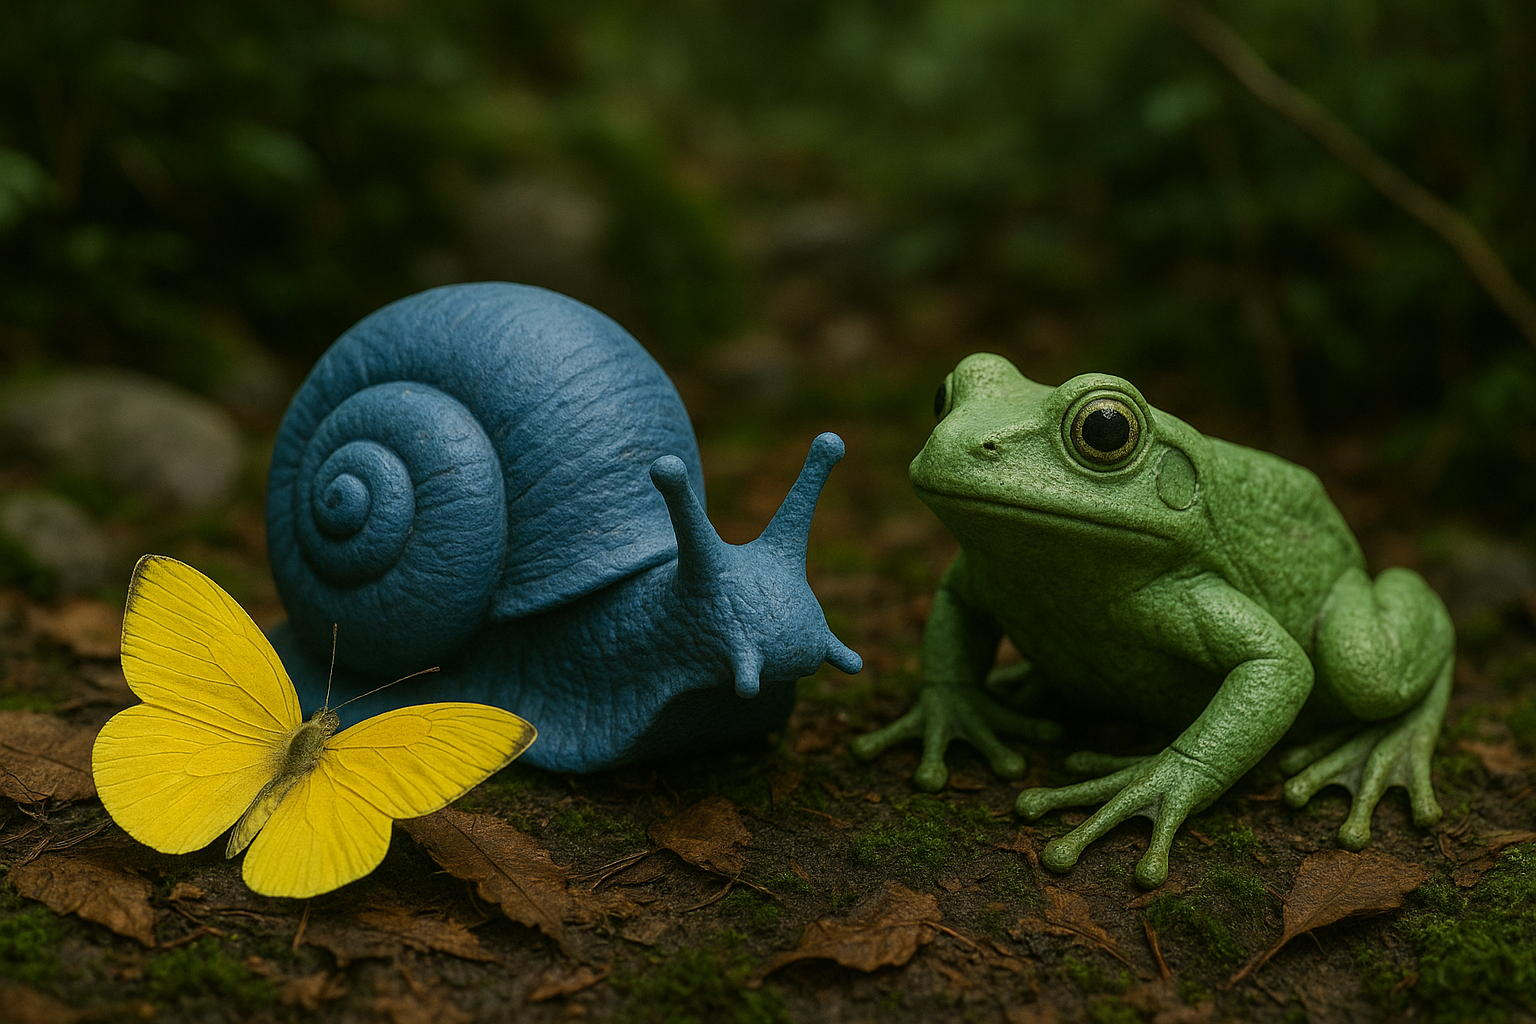
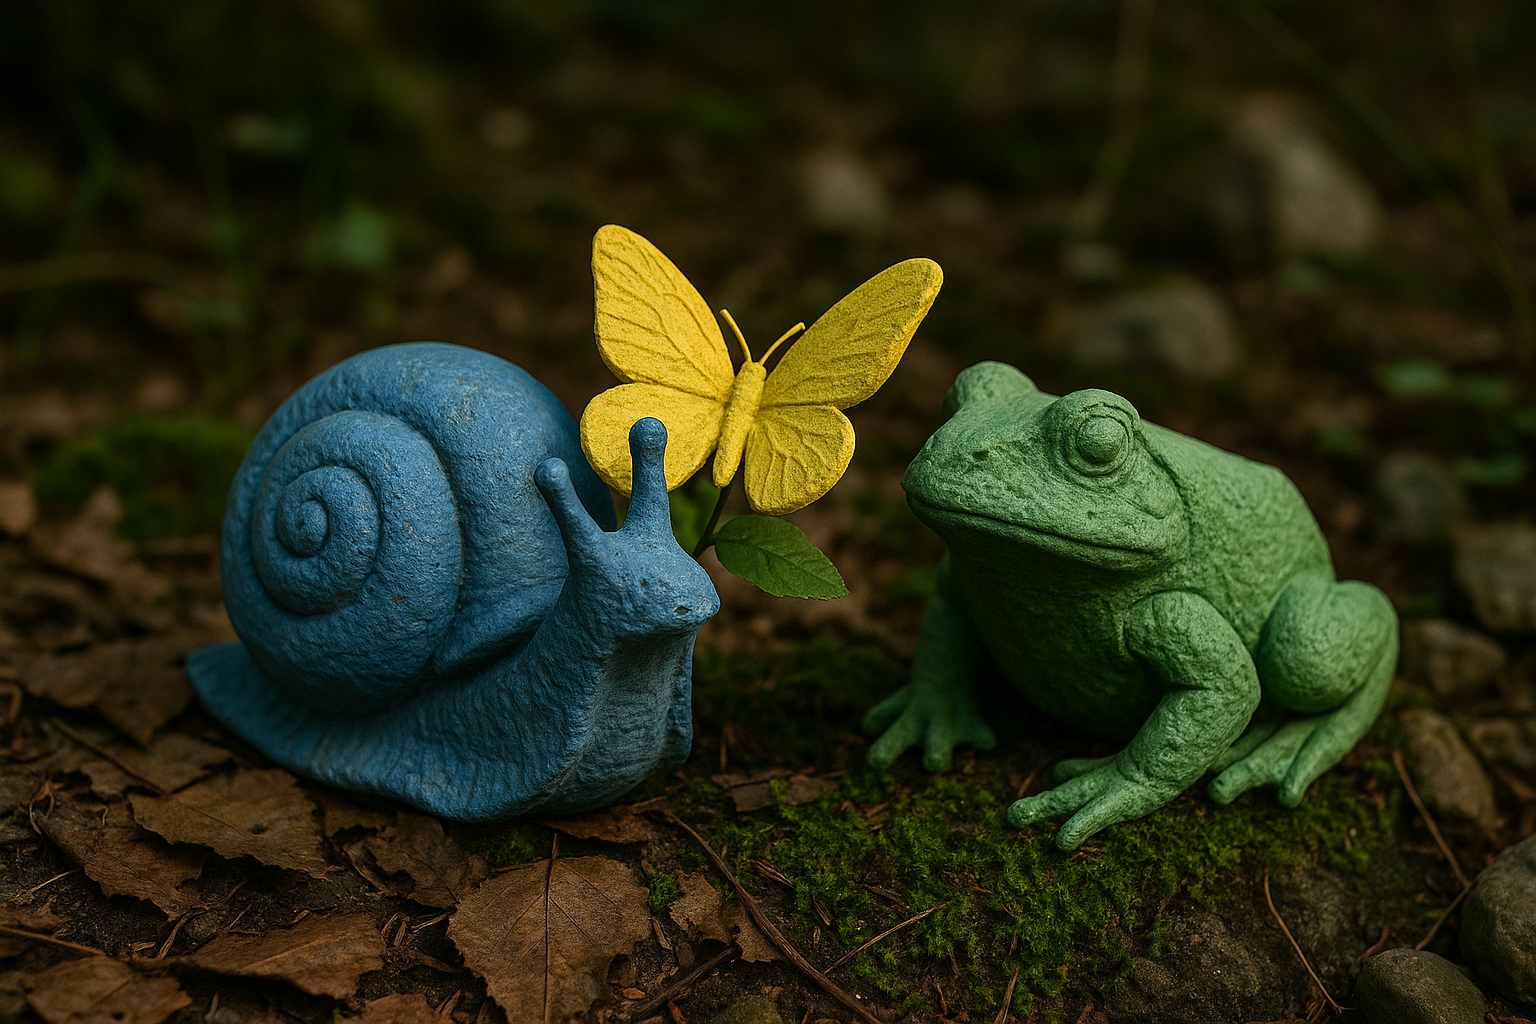
Update README and app.py to clarify image generation prompts and enhance console output; update example images.

diff --git a/images/generation/responses-api/app.py b/images/generation/responses-api/app.py
@@ -14,13 +14,13 @@ from rich.progress import Progress, SpinnerColumn, TextColumn
 
 output_path = "/workspaces/hoy-empiezo-con-ia-generativa/images/generation/responses-api/example_output"
 
-# Setup rich console
+# Configura la consola de rich
 console = Console()
 
-# Load environment variables from a .env file
+# Carga las variables de entorno desde el archivo .env
 load_dotenv()
 
-# Create OpenAI client
+# Crea el cliente de OpenAI
 client = OpenAI(
     base_url=os.getenv("ENDPOINT_URL"),
     api_key=os.getenv("API_KEY")
@@ -29,7 +29,7 @@ client = OpenAI(
 start_time = time.time()
 
 prompt = """
-Genera una imagen hiperrealista y detallada de un caracol de escayola azul y una rana de escayola verde, ambos situados juntos sobre un lecho de hojas y musgo en un entorno natural iluminado suavemente. 
+Genera una imagen hiperrealista y detallada de un caracol de escayola azul y una rana de escayola verde, que se note claramente que son de escayola, ambos situados juntos sobre un lecho de hojas y musgo en un entorno natural iluminado suavemente. 
 Asegúrate de que el caracol y la rana sean claramente visibles, con texturas realistas de escayola, y que el fondo muestre vegetación y elementos naturales como piedras o ramas. 
 La composición debe transmitir tranquilidad y resaltar los colores azul y verde de los animales.
 """
@@ -37,6 +37,7 @@ La composición debe transmitir tranquilidad y resaltar los colores azul y verde
 console.print(Panel.fit(
     "⏳🖼 [bold cyan]Generando la primera imagen (caracol y rana de escayola)...[/bold cyan]\nEsto puede tardar unos segundos.", border_style="cyan"))
 
+# Genera la primera imagen
 with Progress(SpinnerColumn(), TextColumn("[progress.description]{task.description}"), transient=True) as progress:
     progress.add_task(description="Generando imagen...", total=None)
     response = client.responses.create(
@@ -47,10 +48,10 @@ with Progress(SpinnerColumn(), TextColumn("[progress.description]{task.descripti
 
 end_time = time.time()
 
-# Randomly generate a number between 1000 and 9999
+# Genera un número aleatorio entre 1000 y 9999
 random_number = random.randint(1000, 9999)
 
-# Save the image to a file
+# Guarda la imagen en un archivo
 image_data = [
     output.result
     for output in response.output
@@ -68,12 +69,12 @@ else:
     console.print(Panel.fit(
         "❌🚫 [bold red]No se pudo generar la primera imagen.[/bold red]", border_style="red"))
 
-# Print the execution time
+# Imprime el tiempo de ejecución
 execution_time = end_time - start_time
 console.print(
     f"⏱ [bold]Tiempo de ejecución de la primera generación:[/bold] [cyan]{execution_time:.2f} segundos[/cyan]")
 
-# Follow up
+# Segunda generación: añade una mariposa amarilla
 console.print(Panel.fit(
     "⏳🦋 [bold magenta]Generando la segunda imagen (añadiendo mariposa amarilla)...[/bold magenta]\nEspera mientras se procesa la petición.", border_style="magenta"))
 with Progress(SpinnerColumn(), TextColumn("[progress.description]{task.description}"), transient=True) as progress:
@@ -82,7 +83,7 @@ with Progress(SpinnerColumn(), TextColumn("[progress.description]{task.descripti
         previous_response_id=response.id,
         model=os.getenv("IMAGE_GENERATION_MODEL"),
         input=(
-            "Añade una mariposa de color amarillo, con alas abiertas y detalles realistas, "
+            "Añade una mariposa de color amarillo, con alas abiertas también de escayola, se tiene que notar claramente, "
             "posada suavemente sobre una hoja cerca del caracol y la rana. "
             "Asegúrate de que la mariposa destaque en la composición, manteniendo la iluminación suave y el entorno natural, "
             "y que todos los elementos conserven un aspecto hiperrealista y armonioso."
@@ -90,7 +91,7 @@ with Progress(SpinnerColumn(), TextColumn("[progress.description]{task.descripti
         tools=[{"type": "image_generation"}],
     )
 
-# Save the second image
+# Guarda la segunda imagen
 second_image_data = [
     output.result
     for output in second_response.output
@@ -108,7 +109,7 @@ else:
     console.print(Panel.fit(
         "❌🚫 [bold red]No se pudo generar la segunda imagen.[/bold red]", border_style="red"))
 
-# Last but not least, another follow up
+# Tercera generación: escena completamente realista en un bosque
 console.print(Panel.fit(
     "⏳🌳 [bold blue]Generando la tercera imagen (escena completamente realista en un bosque)...[/bold blue]\nPor favor, espera.", border_style="blue"))
 third_response_stream = client.responses.create(
@@ -128,6 +129,7 @@ third_response_stream = client.responses.create(
 console.print(
     "🔄🌲 [bold green]Generando la tercera imagen (escena completamente realista en un bosque)... Esto puede tardar un poco.[/bold green]")
 
+# Guarda las imágenes parciales y la imagen final
 for partial_image in third_response_stream:
     if partial_image.type == "response.image_generation_call.partial_image":
         index = partial_image.partial_image_index

diff --git a/images/README.md b/images/README.md
@@ -94,7 +94,7 @@ Además, como parte de ese ejemplo también estoy haciendo multi-turno, lo que s
 De hecho, con el primer prompt le pido lo siguiente:
 
 ```
-Genera una imagen hiperrealista y detallada de un caracol de escayola azul y una rana de escayola verde, ambos situados juntos sobre un lecho de hojas y musgo en un entorno natural iluminado suavemente. 
+Genera una imagen hiperrealista y detallada de un caracol de escayola azul y una rana de escayola verde, que se note claramente que son de escayola, ambos situados juntos sobre un lecho de hojas y musgo en un entorno natural iluminado suavemente. 
 Asegúrate de que el caracol y la rana sean claramente visibles, con texturas realistas de escayola, y que el fondo muestre vegetación y elementos naturales como piedras o ramas. 
 La composición debe transmitir tranquilidad y resaltar los colores azul y verde de los animales.
 ```
@@ -106,8 +106,8 @@ Y me genera algo como esto:
 Luego, tomando esa imagen como referencia, le pido que la mejore:
 
 ```
-Añade una mariposa de color amarillo, con alas abiertas y detalles realistas,
-posada suavemente sobre una hoja cerca del caracol y la rana.
+Añade una mariposa de color amarillo, con alas abiertas también de escayola, se tiene que notar claramente, 
+posada suavemente sobre una hoja cerca del caracol y la rana. 
 Asegúrate de que la mariposa destaque en la composición, manteniendo la iluminación suave y el entorno natural, 
 y que todos los elementos conserven un aspecto hiperrealista y armonioso.
 ```
